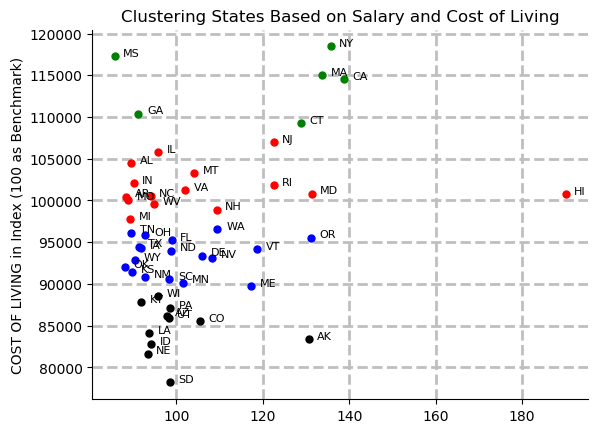
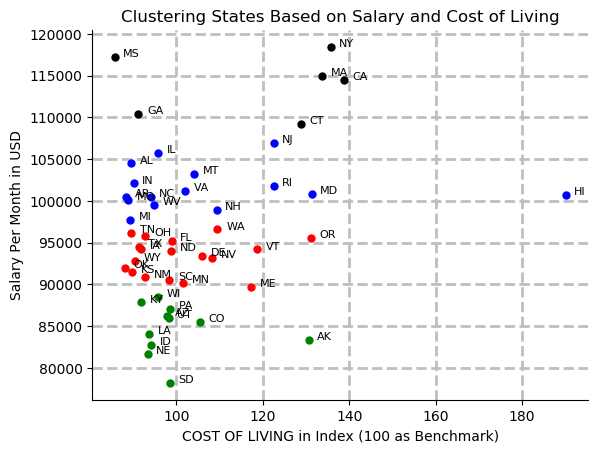
Change xaxis of clustering map

Changed region(s): [[0.0, 0.0, 0.9884, 0.9908]]

diff --git a/clusters/GroupingPlot.py b/clusters/GroupingPlot.py
@@ -20,14 +20,16 @@ for i,j in states_dict.items():
     rev_dict[j] = i
 
 data = list_to_cluster
-
-#Using KMeans
+print(data)
+#生成一个随机数据，样本大小为100, 特征数为2（这里因为要画二维图，所以就将特征设为2，至于三维怎么画？
+#后续看有没有机会研究，当然你也可以试着降维到2维画图也行）
 estimator = KMeans(n_clusters=4)#构造聚类器，构造一个聚类数为3的聚类器
 estimator.fit(data)#聚类
 label_pred = estimator.labels_ #获取聚类标签
 centroids = estimator.cluster_centers_ #获取聚类中心
 inertia = estimator.inertia_ # 获取聚类准则的总和
 mark = ['or', 'ob', 'og', 'ok']
+#这里'or'代表中的'o'代表画圈，'r'代表颜色为红色，后面的依次类推
 color = 0
 j=0
 
@@ -38,7 +40,7 @@ for i in label_pred:
 
 plt.grid(True, lw = 2, ls = '--', c = '.75')
 plt.ylabel('Salary Per Month in USD')
-plt.ylabel('COST OF LIVING in Index (100 as Benchmark)')
+plt.xlabel('COST OF LIVING in Index (100 as Benchmark)')
 plt.title('Clustering States Based on Salary and Cost of Living')
 
 
